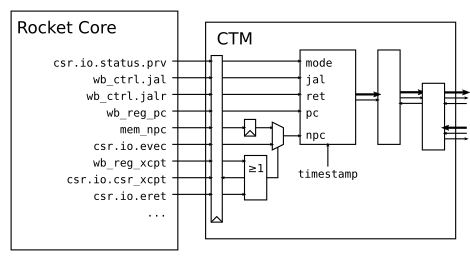
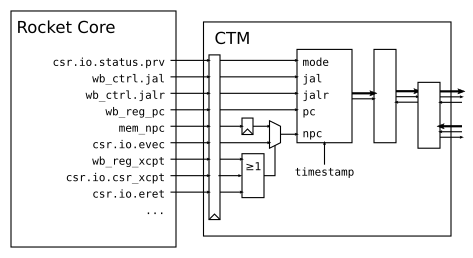
Describe debug modules

Changed region(s): [[0.0894, 0.031, 1.0, 0.9612], [0.0, 0.062, 0.2681, 0.9612]]

diff --git a/docs/debug-v0.3/debugmodules/index.html b/docs/debug-v0.3/debugmodules/index.html
@@ -99,6 +99,155 @@
                     </header>
                     <section>
                         
+
+<p>In the following we will give you a brief overview of the debug
+modules employed in this release. They are all at the first
+implementation state, but contain the basic functionality we will
+extend over the next months. Please find more details about the
+modules at <a href="http://opensocdebug.org">Open SoC Debug</a>.</p>
+
+<h2 id="basic-module-interface:6678bd0c1462a153f54fc674dbdff1d5">Basic Module Interface</h2>
+
+<h2 id="debug-modules:6678bd0c1462a153f54fc674dbdff1d5">Debug Modules</h2>
+
+<h3 id="system-control-module-scm:6678bd0c1462a153f54fc674dbdff1d5">System Control Module (SCM)</h3>
+
+<p>The SCM is the only mandatory module. On the one hand it provides the
+<em>system information</em>:</p>
+
+<ul>
+<li><p>A system ID, which can be used by debug tools to identify the
+hardware platform</p></li>
+
+<li><p>The total number of debug modules</p></li>
+
+<li><p>The maximum length of debug packets supported by this platform</p></li>
+</ul>
+
+<p>Beside this, the module exposes a register where the lower two bits
+drive two pins: The <code>sys_rst</code> reset the entire system and <code>cpu_rst</code>
+resets only the CPUs. The general use case of this register is to
+assert <code>sys_rst</code> and <code>cpu_rst</code> by the host and immediately de-assert
+<code>sys_rst</code> while holding <code>cpu_rst</code>. Next, the debug tool can initialize
+the memory, configure the trace modules, etc. Finally, it de-asserts
+<code>cpu_rst</code> to start the processors.</p>
+
+<p><a name="figure-scm"></a>
+<img src="../figures/debug_module_scm.png" alt="SCM" style="padding: 20px 0px;"/></p>
+
+<h3 id="memory-access-module-mam:6678bd0c1462a153f54fc674dbdff1d5">Memory Access Module (MAM)</h3>
+
+<p>The memory access module is connected to the TileLink interconnect
+between the L1 caches and the L2 cache, which is the last level
+cache. Thereby it is ensured that no data is written or read
+incoherent to the caches. The host can read and write single words
+with a byte strobe or read and write bursts of words.</p>
+
+<p>In this tutorial we use the MAM to initialize the memory, but the use
+cases are by far not limited to this.</p>
+
+<p><a name="figure-mam"></a>
+<img src="../figures/debug_module_mam.png" alt="MAM" style="padding: 20px 0px;"/></p>
+
+<h3 id="device-emulation-module-uart-dem-uart:6678bd0c1462a153f54fc674dbdff1d5">Device Emulation Module - UART (DEM-UART)</h3>
+
+<p>The DEM-UART module is hooked up in the IO subsystem of lowRISC
+instead of the UART controller and has the same interface as the UART
+(16550). There are two reasons why UART is now implemented that way:</p>
+
+<ul>
+<li><p>On the FPGA board the physical UART is actually needed for the
+debug interface</p></li>
+
+<li><p>The terminal can directly be integrated into the debug tools
+without any further ado around the tty device</p></li>
+</ul>
+
+<p>In future we plan to have multiple memory-mapped serial devices
+multiplexed into one DEM-UART, which can be assigned to different
+processors or processes.</p>
+
+<p><a name="figure-dem-uart"></a>
+<img src="../figures/debug_module_dem-uart.png" alt="DEM-UART" style="padding: 20px 0px;"/></p>
+
+<h3 id="core-trace-module-ctm:6678bd0c1462a153f54fc674dbdff1d5">Core Trace Module (CTM)</h3>
+
+<p>A core trace is essentially sampling the execution of the processor
+core. The size of the sampled information can vary a lot, including
+the information about taken branches, executed program counters,
+register accesses, cache misses, branch predictor misses, just to
+mention a few. In this basic version we track the signals depicted in
+the figure to generate two kinds of trace events:</p>
+
+<ul>
+<li><p>All <em>execution mode changes</em> (machine mode and user mode) are
+detected. This can be used to determine time spent in the kernel or
+to update the information about the currently running thread.</p></li>
+
+<li><p>All <em>function calls</em>, i.e., whenever a function is entered or
+left. We track the <code>jal</code> and <code>jalr</code> signals in accordance to the
+calling convention (so that this does not cover all hand-written
+assembly), but still this is speculative and the ELF is needed to
+determine which of the jumps were actually related.</p></li>
+</ul>
+
+<p>This already generates a good amount of trace events and with
+increasing information to gain from core trace better filtering and
+compression will be mandatory.</p>
+
+<p><a name="figure-ctm"></a>
+<img src="../figures/debug_module_ctm.png" alt="CTM" style="padding: 20px 0px;"/></p>
+
+<h3 id="software-trace-module-stm:6678bd0c1462a153f54fc674dbdff1d5">Software Trace Module (STM)</h3>
+
+<p>We introduce another kind of trace beside the core trace. The latter
+is generated independently from the actual software and is thereby
+non-intrusive. A better directed approach is to instrument the
+software with trace events, for example you could instrument your dma
+driver like this:</p>
+
+<pre><code>uint8_t *buffer = malloc(42);
+TRACE(TRACE_DMA_BUFFER, buffer);
+
+TRACE(TRACE_DMA_START, slotid);
+TRACE(TRACE_DMA_START, src);
+TRACE(TRACE_DMA_START, buffer);
+
+dma_transfer(slotid,incoming,buffer);
+
+TRACE(TRACE_DMA_FINISH, slotid);
+</code></pre>
+
+<p>Each software trace event consists of a 16-bit <em>id</em>
+(<code>TRACE_DMA_BUFFER</code> etc.) and an <code>XLEN</code>-sized <em>value</em> (here: 64
+bit). This reduces the amount of necessary trace events
+significantly. The approach can be compared to <code>printf</code> debugging, but
+has a much smaller impact in the form of extra instructions. Instead
+each trace event is two instructions:</p>
+
+<pre><code>/* Write value to a0 (first parameter) register */
+asm volatile (&quot;mv a0,%0&quot;: :&quot;r&quot; ((uint64_t)value) : &quot;a0&quot;);
+/* Write id to the STM CSR register */
+asm volatile (&quot;csrw 0x8f0, %0&quot; :: &quot;r&quot;(id));
+</code></pre>
+
+<p>This sequence can also be emitted by user applications while still
+being thread safe (the register access will be restored and the CSR
+access is atomic). All accesses to the register are tracked and also
+stored. When the CSR access occurs the event is then emitted with the
+value stored in the STM.</p>
+
+<p>Finally, the STM contains a configurable comparator that tracks all
+changes to a configured user register. This can be used to track
+accesses to the thread local storage pointer or similar, but this
+functionality is not used in this tutorial.</p>
+
+<p>The following figure sketches the interface between the Rocket core
+and the STM.</p>
+
+<p><a name="figure-stm"></a>
+<img src="../figures/debug_module_stm.png" alt="STM" style="padding: 20px 0px;"/></p>
+
                     </section>
                 </article>
 
